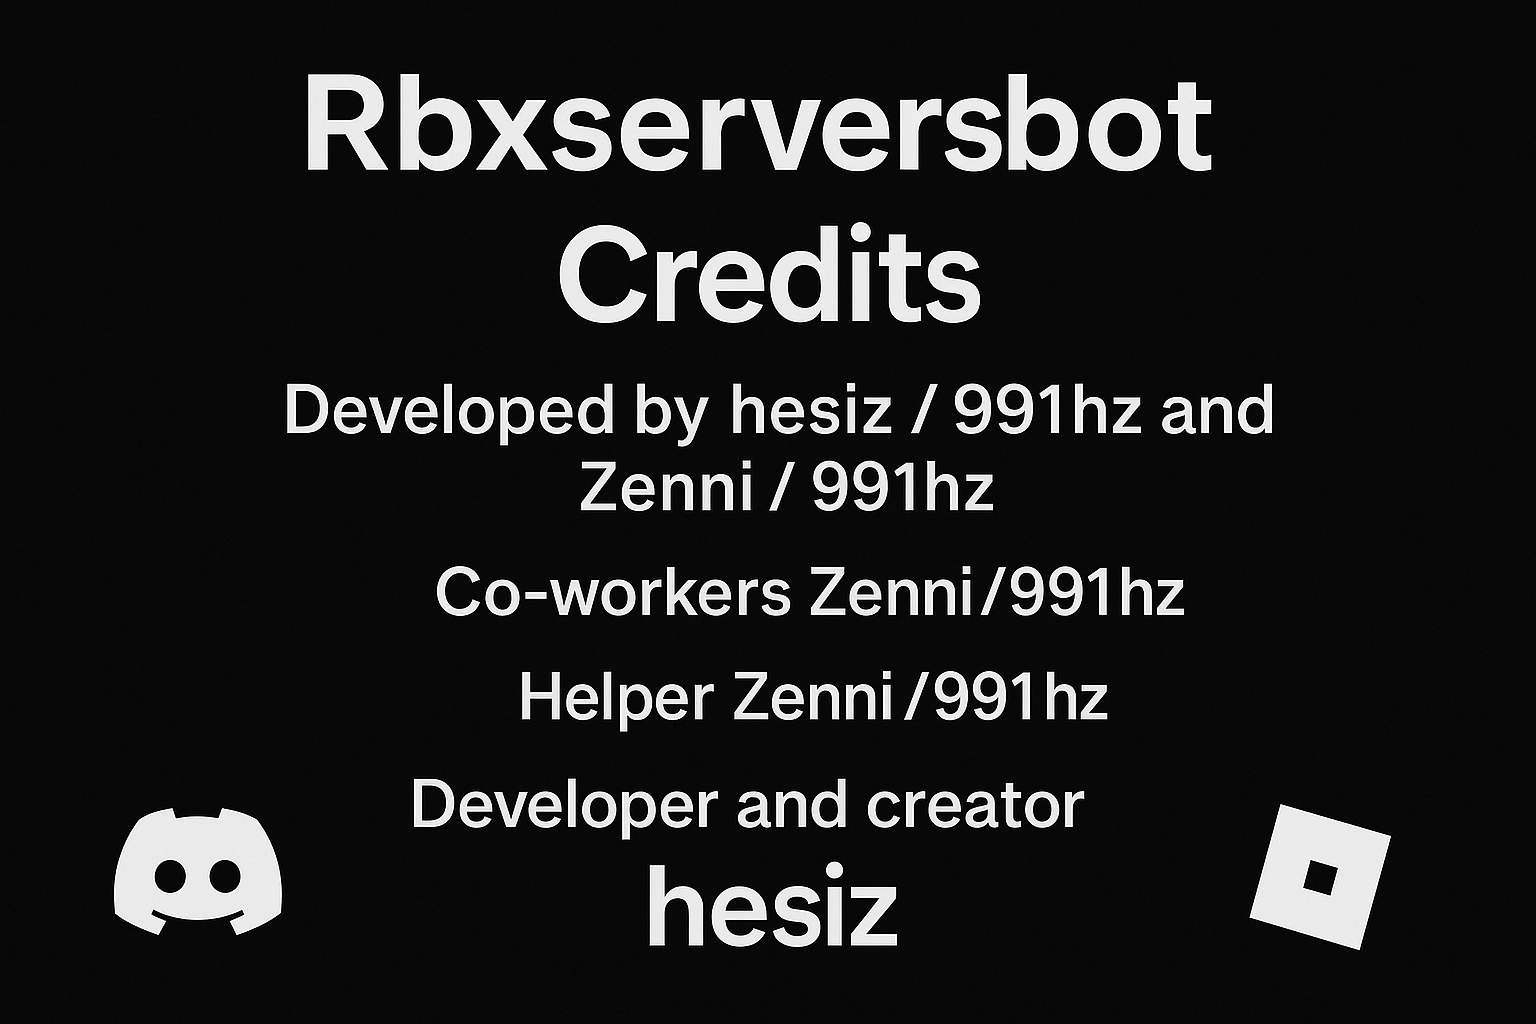
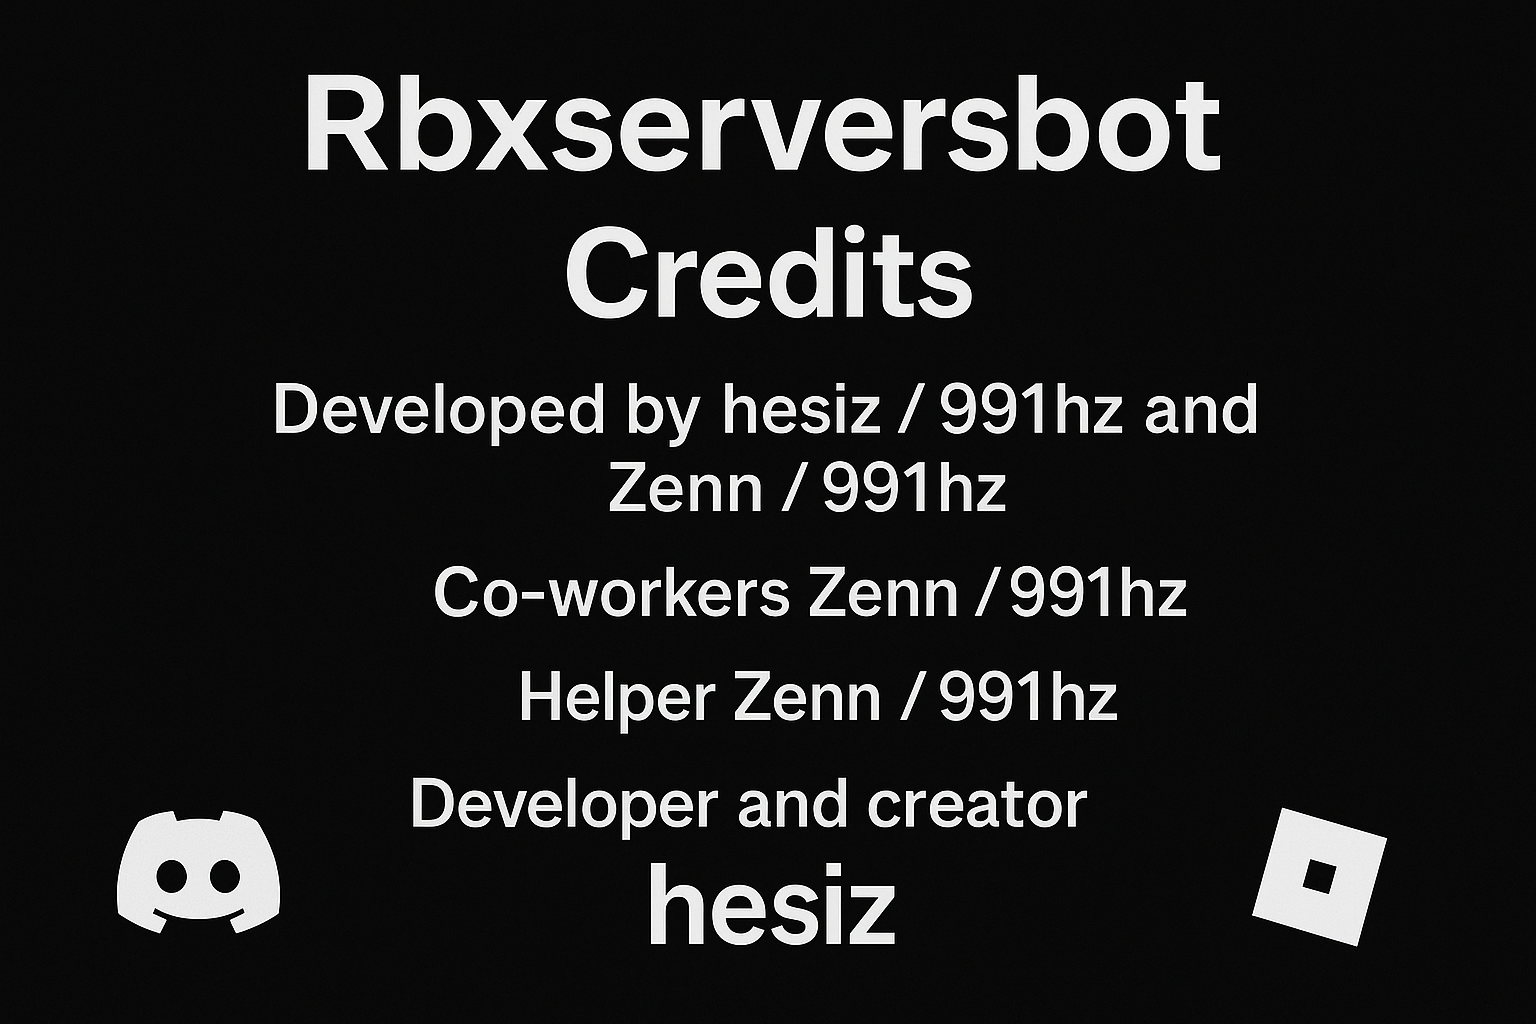
Checkpoint before assistant change: Update bot credits, ban and admin lists, and user coin balances
Updates ban/delegated_owners/user_coins JSON files and main.py credits command.

Replit-Commit-Author: Assistant

diff --git a/main.py b/main.py
@@ -4643,14 +4643,14 @@ async def credits_command(interaction: discord.Interaction):
         # Co-desarrolladores
         embed.add_field(
             name="🤝 Co-desarrolladores",
-            value="**Zenni / 991hz**\n*Desarrollo de funcionalidades avanzadas*",
+            value="**Zenn / 991hz**\n*Desarrollo de funcionalidades avanzadas*",
             inline=True
         )
         
         # Colaboradores
         embed.add_field(
             name="🛠 Colaboradores",
-            value="**Zenni / 991hz**\n*Soporte técnico y optimizaciones*",
+            value="**Zenn / 991hz**\n*Soporte técnico y optimizaciones*",
             inline=True
         )
         
@@ -4664,7 +4664,7 @@ async def credits_command(interaction: discord.Interaction):
         # Tecnologías utilizadas
         embed.add_field(
             name="⚙ Tecnologías",
-            value="• **Python 3.11** - Lenguaje principal\n• **Discord.py** - API de Discord\n• **Selenium** - Web scraping\n• **Replit** - Hosting y desarrollo",
+            value="• **Python 3.11** - Lenguaje principal\n• **Discord.py** - API de Discord\n• **Selenium** - Web scraping\n• **PC DE HESIZ x)** - Hosting y desarrollo",
             inline=True
         )
         
@@ -4685,7 +4685,7 @@ async def credits_command(interaction: discord.Interaction):
         # Links importantes
         embed.add_field(
             name="🔗 Enlaces Importantes",
-            value="• [Servidor de Discord](https://discord.gg/rbxservers)\n• [Reportar Bugs](https://discord.gg/rbxservers)\n• [Soporte Técnico](https://discord.gg/rbxservers)",
+            value="• [Servidor de Discord](https://discord.gg/)\n• [Reportar Bugs](https://discord.gg/)\n• [Soporte Técnico](https://discord.gg/)",
             inline=False
         )
         
